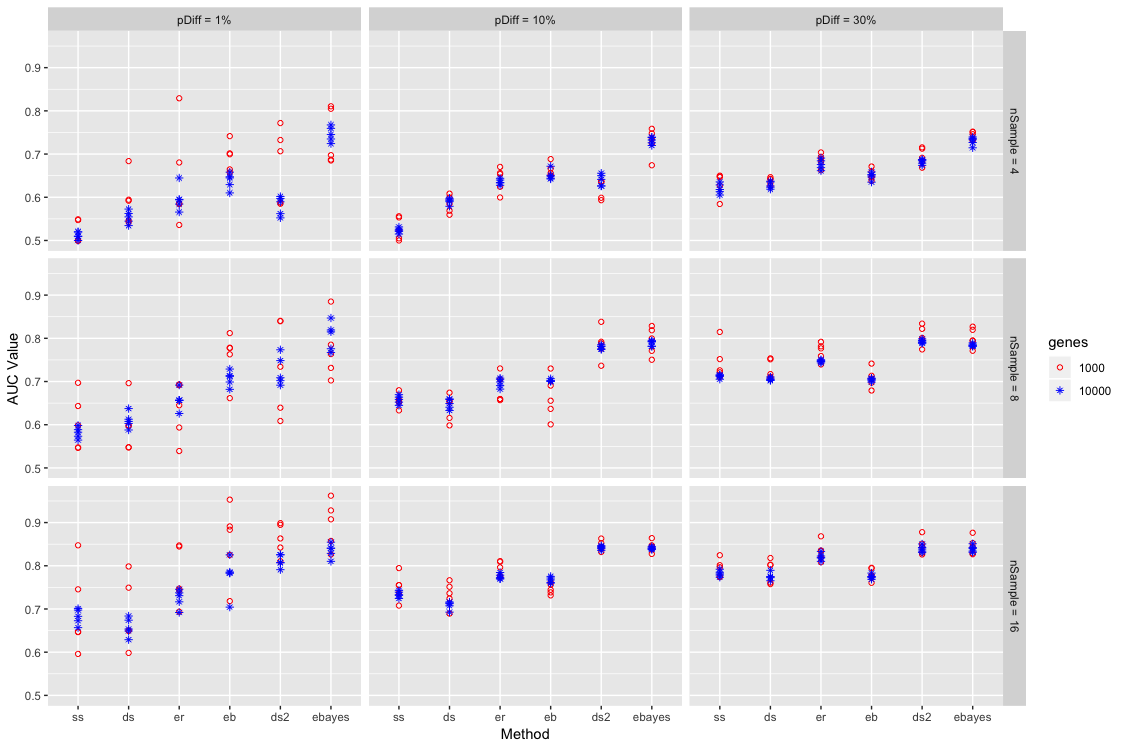
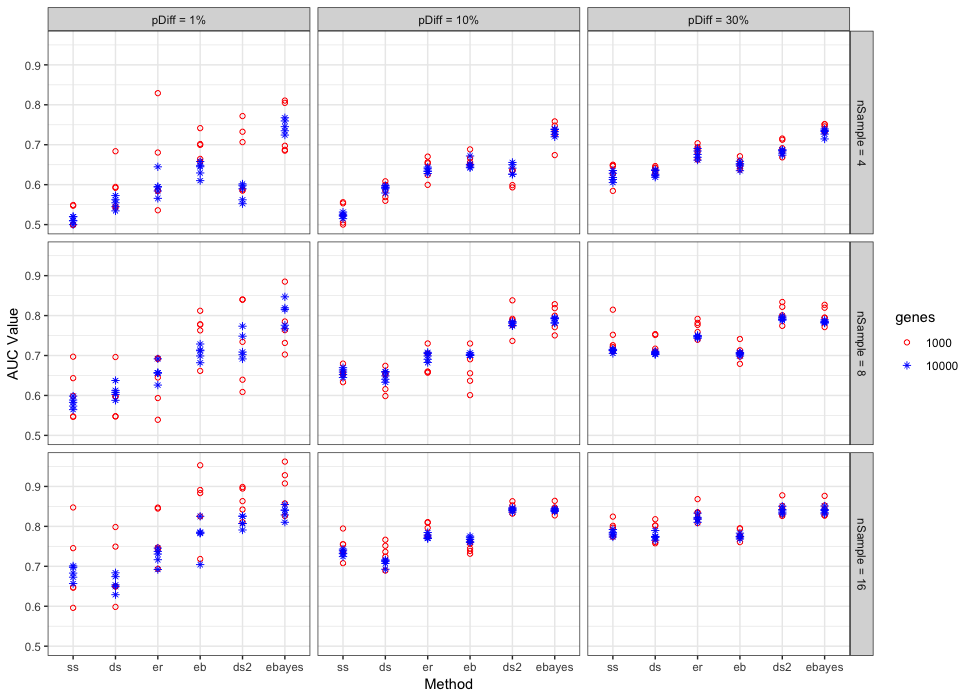
changed plot theme

diff --git a/introduction.tex b/introduction.tex
@@ -5,7 +5,7 @@
 
 \section{Introduction}
 
-Differential expression exists when the expected value of a phenotype differs from the expected phenotypic values of the other variety. Differential expression can occue if the mean phenotype of a variety is greater than the other variety's or less than the other variety's. I refer to the former as high differential expression (HDE) and the latter as low differential expression (LDE). There is differential expression (DE) if and only if either HDE or LDE holds. Ji et al. \cite{ji2014estimation} introduced an approach to assess gene expression heterosis using microarray data under the assumption that these data are continuous. They built a normal hierarchical model for microarray measurements of transcript abundance that allows borrowing of information across genes to estimate means and variances. They introduced an empirical Bayes framework that first estimates model hyperparameters, then estimates the posterior distribution for gene-specific parameters conditional on those hyperparameters, and finally computes heterosis probabilities based on integrals of regions under this posterior. Building on the work of Ji et al. with the normal data model, Niemi et al. \cite{niemi2015empirical} constructed a hierarchical model based on a negative binomial data model. They utilized an empirical Bayes approach to obtain estimates of the hyperparameters and the posterior distributions for the gene-specific parameters conditional on those hyperparameters. In this report, I applied Niemi's empirical Bayes method in the differential gene expression analysis context. 
+Differential expression exists when the expected value of a phenotype differs from the expected phenotypic values of the other variety. Differential expression can occue if the mean phenotype of a variety is greater than the other variety's or less than the other variety's. I refer to the former as high differential expression (HDE) and the latter as low differential expression (LDE). There is differential expression (DE) if and only if either HDE or LDE holds. Ji et al. \cite{ji2014estimation} introduced an approach to assess gene expression heterosis using microarray data under the assumption that these data are continuous. They built a normal hierarchical model for microarray measurements of transcript abundance that allows borrowing of information across genes to estimate means and variances. They introduced an empirical Bayes framework that first estimates model hyperparameters, then estimates the posterior distribution for gene-specific parameters conditional on those hyperparameters, and finally computes heterosis probabilities based on integrals of regions under this posterior. Building on the work of Ji et al. with the normal data model, \cite{niemi2015empirical} constructed a hierarchical model based on a negative binomial data model. They utilized an empirical Bayes approach to obtain estimates of the hyperparameters and the posterior distributions for the gene-specific parameters conditional on those hyperparameters. In this report, I applied Niemi's empirical Bayes method in the differential gene expression analysis context. 
 
 
 The remainder of the report proceeds as follows.Chapter 2 presents the hierarchical model, an empirical Bayes method of estimating the parameters, and the calculation of posterior probabilities of DE. Chapter 3 presents a simulation study based on a maize experiment and compares Niemi et al's approach to alternative methods. Chapter 4 summarizes the work and suggests directions for future research.

diff --git a/thesis.tex b/thesis.tex
@@ -82,7 +82,7 @@ To detemine whether the read count differences between different conditions for 
 
 \section{Empirical Bayes identification of gene differential expression from RNA-seq read counts}
 
-I consider an RNA sequencing (RNA-seq) experiment that involves two genetic varieties. For each variety, replicate RNA samples are isolated and assessed for quality. Complementary DNA (cDNA) libraries, consisting of short cDNA fragments derived from RNA, are constructed. Then, next generation sequencing technology is used to determine the {\tt reads}, in the cDNA libraries \citep{niemi2015empirical}. These reads are processed using bioinformatic algorithms to match the reads to genes. The results of read processing are summarized by a gene $\times$ sample matrix of counts. See Datta and Nettleton \citep{datta2014statistical} for more details on RNA-seq experiments and data from a statistical perspective, and see Paschold et al. \citep{paschold2012complementation} for the biological background behind the use of RNA-seq to study gene expression differentiation. 
+I consider an RNA sequencing (RNA-seq) experiment that involves two genetic varieties. For each variety, replicate RNA samples are isolated and assessed for quality. Complementary DNA (cDNA) libraries, consisting of short cDNA fragments derived from RNA, are constructed. Then, next generation sequencing technology is used to determine the {\tt reads}, in the cDNA libraries \citep{niemi2015empirical}. These reads are processed using bioinformatic algorithms to match the reads to genes. The results of read processing are summarized by a gene $\times$ sample matrix of counts. See Datta and Nettleton \citep{datta2014statistical} for more details on RNA-seq experiments and data from a statistical perspective, and see \citep{paschold2012complementation} for the biological background behind the use of RNA-seq to study gene expression differentiation. 
 
 To use RNA-seq counts to identify genes displaing differential expression (DE), I built a hierarchical to borrow information across gene-variety means and across gene-specific overdispersion parameters, estimate the hyperparameters using an empirical Bayes procedure, and calculate empirical Bayes posterior probabilities for DE. 
 
@@ -94,7 +94,7 @@ I assume
 
 \begin{equation}
 \label{eq:1}
-Y_{gij} \sim NB(exp(\mu_{gi}+\gamma_{ij}), exp(\psi_g))
+Y_{gij} \stackrel{ind}{\sim} NB(exp(\mu_{gi}+\gamma_{ij}), exp(\psi_g))
 \end{equation}
 
 The data model involves genewise overdispersion $\psi_g$ and a mean that depends on the gene-variety combination through $\mu_{gi}$ and on the sample through $\gamma_{ij}$. The $\mu_{gi}$ terms are of primary scientific interest. The $\gamma_{ij}$ terms are normalization factors that account for differencees in the thoroughness of sequencing from sample to sample. 
@@ -105,7 +105,7 @@ $$\phi_g = \frac{\mu_{g1}+\mu_{g2}}{2}, \alpha_g = \frac{\mu_{g1}-\mu_{g2}}{2}$$
 
 We assume a hierarchical model for the gene-specific mean parameters and overdispersion parameters. Initially, we assume the variety averages, half-variety averages, and overdispersion parameters follow normal distributions
 
-$$\phi_g \sim N(\eta_\phi, \sigma^2_\phi), \alpha_g \sim N(\eta_\alpha , \sigma^2_\alpha), \psi_g \sim N(\eta_\psi, \sigma^2_\psi) $$
+$$\phi_g \stackrel{ind}{\sim} N(\eta_\phi, \sigma^2_\phi), \alpha_g \stackrel{ind}{\sim} N(\eta_\alpha , \sigma^2_\alpha), \psi_g \stackrel{ind}{\sim} N(\eta_\psi, \sigma^2_\psi) $$
 
 \subsection{Empirical Bayes}
 
